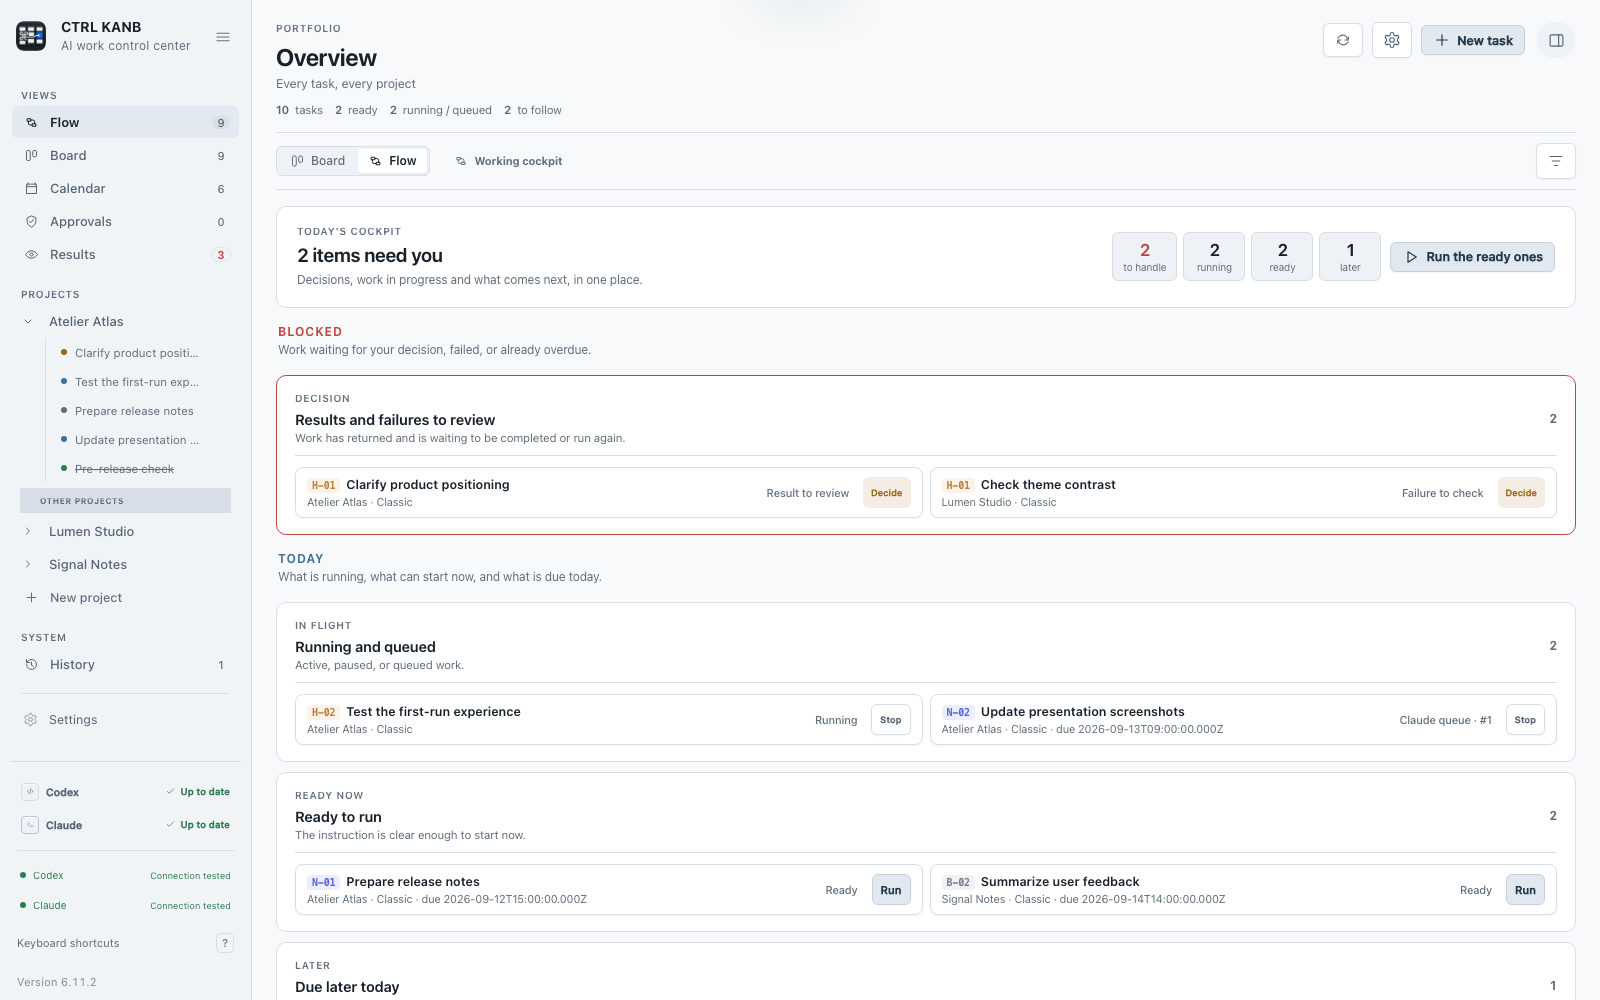
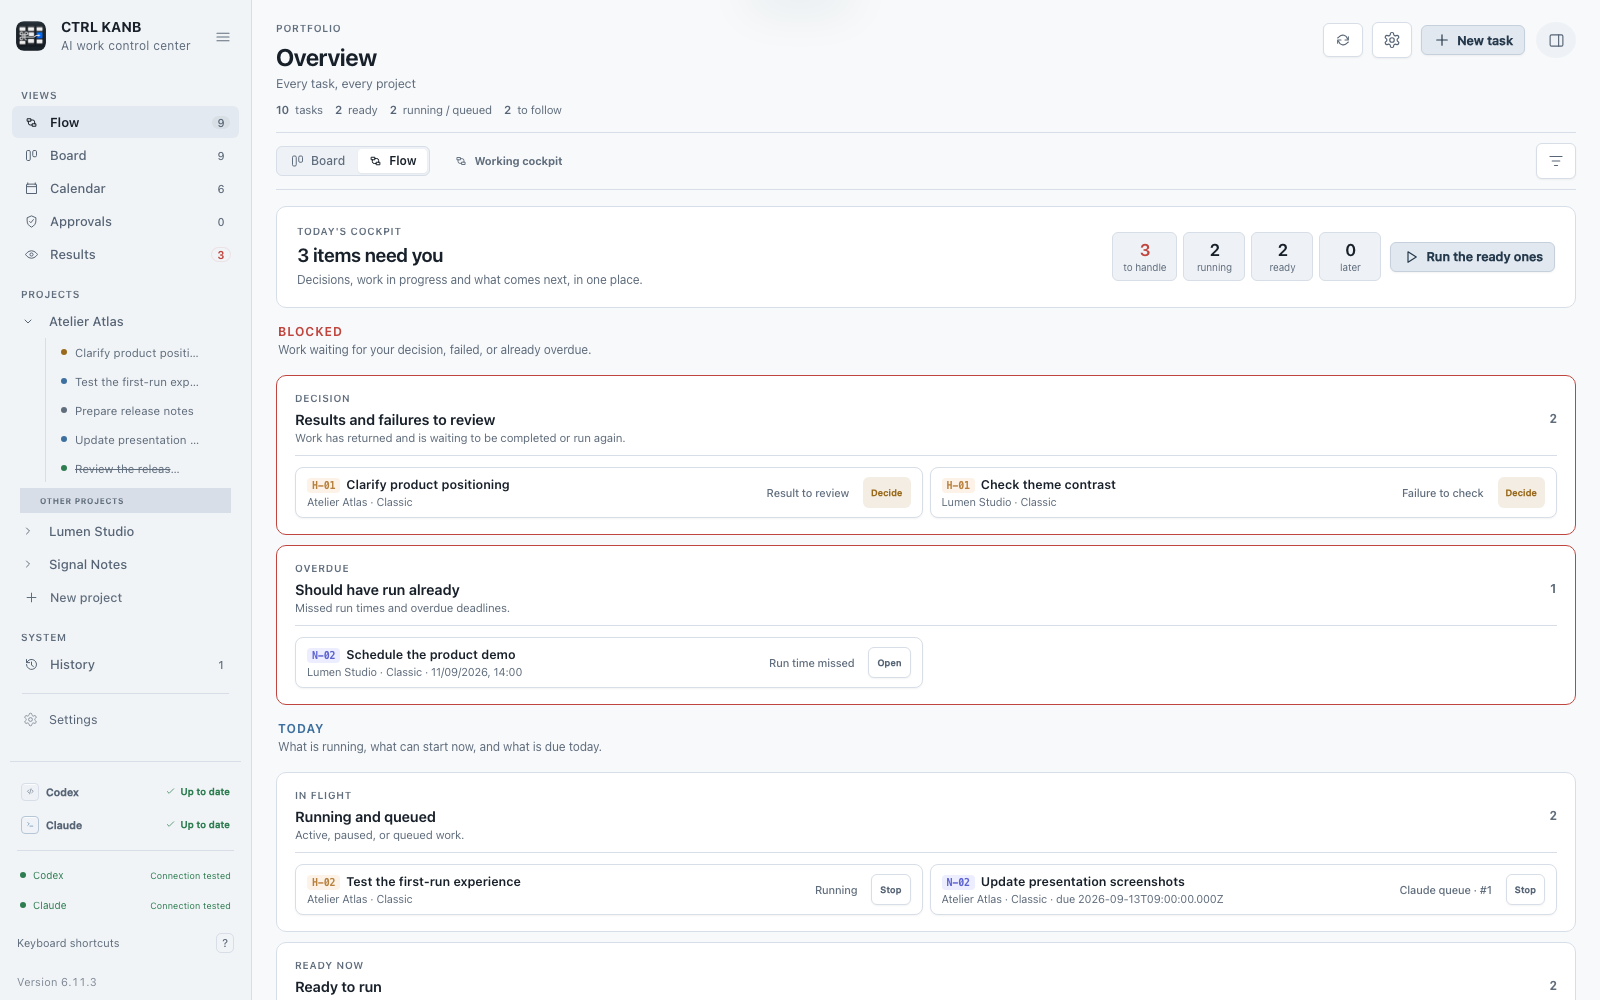
Stabilise la documentation de publication

diff --git a/Scripts/capture-docs.js b/Scripts/capture-docs.js
@@ -113,7 +113,7 @@ const demo = String.raw`
       scheduledAt: instant(1, 9), scheduleState: "pending", durationMinutes: 45,
       labels: ["Routine"]
     }),
-    card("publish-check", "atlas", tx("Contrôle avant publication", "Pre-release check"), "done", "normal", 3, {
+    card("publish-check", "atlas", tx("Vérifier les notes de version", "Review the release notes"), "done", "normal", 3, {
       completedAt: instant(-1, 17), lastRun: { finishedAt: instant(-1, 17), exitCode: 0, summary: tx("La liste de publication est complète.", "The release checklist is complete.") }
     }),
     card("agenda-plan", "lumen", tx("Planifier la démonstration produit", "Schedule the product demo"), "ready", "normal", 2, {

diff --git a/Scripts/privacy-scan.py b/Scripts/privacy-scan.py
@@ -1,5 +1,5 @@
 #!/usr/bin/env python3
-"""Bloque les informations locales et secrets courants avant publication."""
+"""Bloque les informations locales et secrets courants dans les fichiers suivis."""
 
 from __future__ import annotations
 

diff --git a/README.fr.md b/README.fr.md
@@ -6,7 +6,7 @@
 
 **Le poste de pilotage local pour organiser, planifier et suivre le travail confié à Codex et Claude sur macOS et Windows.**
 
-> **Statut — version 6.11.3 candidate.** Le code source fonctionne sur macOS et Windows et les principaux parcours sont couverts par des contrôles automatisés et des essais réels. Consultez [la compatibilité et les validations](docs/COMPATIBILITY.md) avant toute utilisation importante.
+> **Version actuelle — 6.11.3.** Le code source fonctionne sur macOS et Windows et les principaux parcours sont couverts par des contrôles automatisés et des essais réels. Consultez [la compatibilité et les validations](docs/COMPATIBILITY.md) avant toute utilisation importante.
 
 ## Pourquoi CTRL KANB existe
 
@@ -80,7 +80,7 @@ Les versions testées et les limites observées sont consignées dans [COMPATIBI
 - **Sources d’une version** : chaque release GitHub propose automatiquement les archives `Source code (zip)` et `Source code (tar.gz)` correspondant à son tag.
 - **Code courant** : le bouton **Code → Download ZIP** de GitHub ou [l’archive de `main`](https://github.com/charlesvbtpro-ship-it/ctrl-kanb/archive/refs/heads/main.zip) permet de télécharger le dépôt sans utiliser Git.
 
-Tant qu’aucune release n’est publiée, l’installation se fait depuis les sources. Le dépôt reste privé pendant sa préparation ; ces liens deviendront accessibles aux visiteurs lors de son ouverture.
+Si aucun paquet n’est disponible pour la version souhaitée, utilisez les instructions de construction ci-dessous.
 
 ## Démarrage rapide
 
@@ -177,7 +177,7 @@ Consultez [PRIVACY.md](PRIVACY.md) et [SECURITY.md](SECURITY.md).
 | [Architecture](docs/ARCHITECTURE.md) | hôtes, stockage, files, permissions et planificateur |
 | [Modèle de données](docs/DATA-MODEL.md) | schéma persistant et migrations |
 | [Version Windows](docs/WINDOWS-PORT.md) | implémentation et validation Tauri |
-| [Publication](docs/RELEASE-CHECKLIST.md) | contrôles avant une release |
+| [Contrôles de version](docs/RELEASE-CHECKLIST.md) | construction, validation et livraison des paquets |
 | [Historique](CHANGELOG.md) | changements visibles par version |
 | [Assistance](SUPPORT.md) | rapports de bugs et demandes d’évolution |
 

diff --git a/README.md b/README.md
@@ -6,7 +6,7 @@
 
 **A local control center for organizing, scheduling, and tracking work delegated to Codex and Claude on macOS and Windows.**
 
-> **Project status — 6.11.3 release candidate.** The source runs on macOS and Windows. Core flows are covered by automated checks and real-machine testing. Read the [compatibility and validation report](docs/COMPATIBILITY.md) before relying on CTRL KANB for important work.
+> **Current version — 6.11.3.** The source runs on macOS and Windows. Core flows are covered by automated checks and real-machine testing. Read the [compatibility and validation report](docs/COMPATIBILITY.md) before relying on CTRL KANB for important work.
 
 ## Why CTRL KANB exists
 
@@ -80,7 +80,7 @@ The exact versions tested and the remaining limitations are recorded in [COMPATI
 - **Versioned source:** every GitHub release automatically includes `Source code (zip)` and `Source code (tar.gz)` archives for its tag.
 - **Current source:** use GitHub’s **Code → Download ZIP** button or download the [`main` archive](https://github.com/charlesvbtpro-ship-it/ctrl-kanb/archive/refs/heads/main.zip) without installing Git.
 
-Until a release is published, install CTRL KANB from source. The repository remains private while it is being prepared; these links will become available to visitors when the repository opens.
+If no package is available for the version you need, use the source build instructions below.
 
 ## Quick start
 
@@ -184,7 +184,7 @@ The full technical and user documentation is currently maintained in French:
 | [Data model](docs/DATA-MODEL.md) | persistent schema and migrations |
 | [macOS background engine](docs/BACKGROUND-ENGINE.md) | optional `launchd` behavior |
 | [Windows port](docs/WINDOWS-PORT.md) | Tauri host implementation and real-machine validation |
-| [Release checklist](docs/RELEASE-CHECKLIST.md) | controls required before a public release |
+| [Version checklist](docs/RELEASE-CHECKLIST.md) | package build, validation, and delivery controls |
 | [Changelog](CHANGELOG.md) | user-visible changes by version |
 | [Support](SUPPORT.md) | bug reports and feature requests |
 

diff --git a/docs/RELEASE-CHECKLIST.md b/docs/RELEASE-CHECKLIST.md
@@ -1,6 +1,6 @@
-# Contrôles avant publication
+# Contrôles d’une version
 
-Cette liste fige le périmètre de la première version publique. Une nouvelle fonction n’entre dans la version que si elle corrige un défaut bloquant.
+Cette liste encadre chaque version distribuée de CTRL KANB. Chaque paquet regroupe uniquement des changements vérifiés et documentés.
 
 ## Contrôles automatiques
 
@@ -44,7 +44,7 @@ npm --prefix Platforms/Windows run build
 ```
 
 - installer le paquet avec `Platforms\Windows\validate-installed.ps1` ;
-- lancer le raccourci du menu Démarrer et confirmer que la release démarre sans fenêtre PowerShell, Invite de commandes ou Windows Terminal ;
+- lancer le raccourci du menu Démarrer et confirmer que l’application installée démarre sans fenêtre PowerShell, Invite de commandes ou Windows Terminal ;
 - vérifier le terminal PowerShell dans un dossier contenant des espaces ;
 - tester une tâche programmée, une récurrence et deux conversations simultanées ;
 - fermer la fenêtre avec le moteur activé, rouvrir depuis la zone de notification puis redémarrer la session ;
@@ -58,8 +58,7 @@ npm --prefix Platforms/Windows run build
 - vérifier qu’aucune donnée personnelle, clé, jeton ou chemin privé n’est suivi par Git ;
 - exécuter `npm run test:privacy` sur l’arbre propre juste avant le tag ;
 - mettre à jour la version et les notes de version ;
-- confirmer que le dépôt reste privé tant que les paquets, la documentation et le signalement de sécurité ne sont pas prêts ;
-- activer le signalement privé de vulnérabilités et protéger la branche `main` avant le passage public ;
+- vérifier le signalement privé de vulnérabilités et la protection de la branche `main` ;
 - déclencher le workflow de release depuis un tag, contrôler les deux paquets et leurs empreintes, puis publier manuellement le brouillon ;
 - vérifier chaque téléchargement sur un environnement distinct de celui qui a produit le paquet ;
 - ne publier les mises à jour automatiques qu’après mise en place d’un flux vérifié.

diff --git a/SECURITY.md b/SECURITY.md
@@ -2,7 +2,7 @@
 
 ## Versions prises en charge
 
-Avant la première release publique signée, seule la branche `main` et la dernière version candidate font l’objet de corrections. Une version ancienne peut être utilisée pour reproduire un problème, mais aucun calendrier de support rétroactif n’est garanti.
+Les correctifs sont appliqués à la branche `main` et à la version distribuée la plus récente. Les versions précédentes peuvent servir à reproduire un problème, mais ne bénéficient pas d’un calendrier de maintenance rétroactive.
 
 ## Signaler une vulnérabilité
 
@@ -16,7 +16,7 @@ Le rapport doit contenir :
 - l’impact concret ;
 - une preuve utilisant uniquement des projets, chemins et contenus fictifs.
 
-Ne transmettez jamais de jeton, clé, donnée de compte, export, conversation, chemin personnel ou journal réel. Aucun délai de réponse ou de correction n’est encore garanti.
+Ne transmettez jamais de jeton, clé, donnée de compte, export, conversation, chemin personnel ou journal réel. Le projet ne garantit aucun délai contractuel de réponse ou de correction.
 
 ## Périmètre
 
@@ -54,6 +54,4 @@ CTRL KANB est une application locale, mais les processus qu’elle lance ne sont
 - actions natives accessibles par une liste fermée et arguments de processus structurés ;
 - sérialisation des instructions visant une même conversation ;
 - demandes d’autorisation liées à leur identifiant natif exact ;
-- contrôle `npm run test:privacy` avant publication.
-
-Les paquets publics devront être signés, accompagnés d’une empreinte SHA-256 et produits par un workflow de release contrôlé. La signature ad hoc macOS et l’absence actuelle de signature Authenticode conviennent aux constructions locales, pas à une chaîne de confiance publique.
+- contrôle `npm run test:privacy` sur l’ensemble des fichiers suivis par Git.

diff --git a/docs/COMPATIBILITY.md b/docs/COMPATIBILITY.md
@@ -4,9 +4,9 @@ Ce document sépare les comportements contrôlés automatiquement, les observati
 
 ## Version examinée
 
-- CTRL KANB : 6.11.3 candidate ;
+- CTRL KANB : 6.11.3 ;
 - schéma de données : 22 ;
-- date du dernier passage complet : 10 septembre 2026.
+- date du dernier passage complet : 11 septembre 2026.
 
 ## Systèmes testés
 
@@ -66,4 +66,4 @@ Les détails techniques sont consignés dans [WINDOWS-PORT.md](WINDOWS-PORT.md).
 - réponse finale réussie des deux agents sur la machine Windows avec des comptes connectés et des quotas disponibles ;
 - mécanisme de mise à jour automatique vérifié.
 
-Ces points ne doivent pas être présentés comme terminés dans une release. La [liste de publication](RELEASE-CHECKLIST.md) reste la source de contrôle avant chaque paquet public.
+Ces points restent explicitement non validés dans les notes de version. La [liste de contrôle](RELEASE-CHECKLIST.md) encadre la construction, la vérification et la livraison de chaque paquet.

diff --git a/PRIVACY.md b/PRIVACY.md
@@ -51,4 +51,4 @@ Les journaux locaux servent au diagnostic du démarrage, du planificateur et des
 
 ## Publication et contributions
 
-Le dépôt ne doit contenir aucun tableau réel, journal, export, capture utilisateur, configuration d’agent, secret ou chemin personnel. Les captures officielles sont générées avec des données fictives. Le contrôle `npm run test:privacy` recherche les chemins absolus, emails, secrets courants, métadonnées PNG et artefacts locaux avant publication.
+Le dépôt ne doit contenir aucun tableau réel, journal, export, capture utilisateur, configuration d’agent, secret ou chemin personnel. Les captures officielles sont générées avec des données fictives. Le contrôle `npm run test:privacy` recherche les chemins absolus, emails, secrets courants, métadonnées PNG et artefacts locaux dans l’ensemble des fichiers suivis par Git.

diff --git a/docs/INSTALLATION.md b/docs/INSTALLATION.md
@@ -4,7 +4,7 @@ CTRL KANB fonctionne sans compte propre. Codex et Claude sont facultatifs. Les f
 
 ## Télécharger ou construire
 
-La page [Releases](https://github.com/charlesvbtpro-ship-it/ctrl-kanb/releases/latest) fournit les applications macOS et Windows, les notes de version et `SHA256SUMS.txt` lorsqu’une version est publiée. GitHub ajoute aussi les archives du code source correspondant au tag. En l’absence de release, utilisez les instructions de construction ci-dessous.
+La page [Releases](https://github.com/charlesvbtpro-ship-it/ctrl-kanb/releases/latest) fournit les applications macOS et Windows, les notes de version et `SHA256SUMS.txt` pour chaque version disponible. GitHub ajoute aussi les archives du code source correspondant au tag. Pour une révision sans paquet, utilisez les instructions de construction ci-dessous.
 
 ## Installer un agent
 

diff --git a/Platforms/Windows/README.md b/Platforms/Windows/README.md
@@ -42,4 +42,4 @@ L’installateur NSIS est produit sous `src-tauri\target\release\bundle\nsis`.
 .\validate-installed.ps1 -Installer "src-tauri\target\release\bundle\nsis\CTRL KANB_6.11.3_x64-setup.exe"
 ```
 
-Le script vérifie l’installation, le lancement dans la session interactive, le verrou d’instance unique, la séparation des données et l’empreinte du programme. L’état détaillé des essais réels et les limites de publication sont consignés dans [`docs/WINDOWS-PORT.md`](../../docs/WINDOWS-PORT.md).
+Le script vérifie l’installation, le lancement dans la session interactive, le verrou d’instance unique, la séparation des données et l’empreinte du programme. L’état détaillé des essais réels et les limites techniques sont consignés dans [`docs/WINDOWS-PORT.md`](../../docs/WINDOWS-PORT.md).

diff --git a/docs/UI-REVIEW.md b/docs/UI-REVIEW.md
@@ -22,9 +22,9 @@ Les thèmes clairs et sombres utilisent les mêmes niveaux de surface, bordure, 
 
 Les barres d’actions conservent des boutons compacts. Les textes secondaires se replient avant les actions essentielles. Le chat garde sa zone de saisie visible et l’historique utilise un seul défilement.
 
-## Contrôles avant publication
+## Contrôles visuels
 
 - parcourir toutes les vues en mode clair et sombre ;
 - vérifier le panneau gauche replié et les différentes largeurs du panneau droit ;
 - tester les états vides, chargés, en erreur et en synchronisation ;
-- utiliser uniquement des données fictives dans les captures et exemples publics.
+- utiliser uniquement des données fictives dans les captures et exemples distribués.

diff --git a/CHANGELOG.md b/CHANGELOG.md
@@ -4,7 +4,7 @@ Ce fichier suit les changements visibles de CTRL KANB. Le projet utilise une num
 
 ## Non publié
 
-- préparation de la première publication GitHub ;
+- maintenance des livrables GitHub ;
 - préparation automatisée des paquets et empreintes de release ;
 - validation prolongée veille, réseau et échelles Windows à compléter.
 
